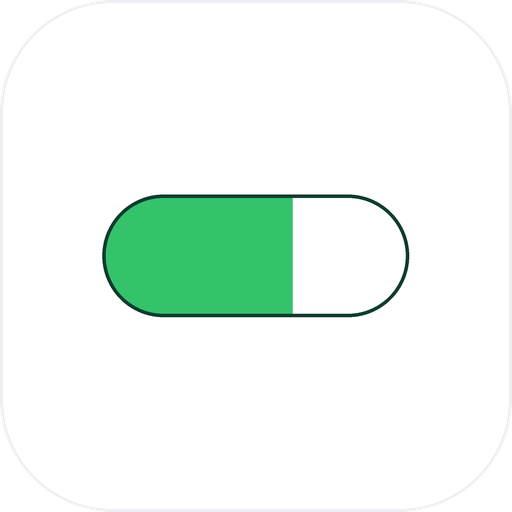
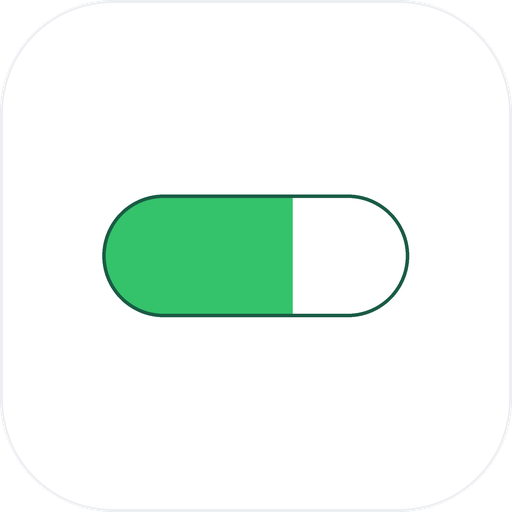
图标描边提亮一档：#0F3D2E -> #1A5C45
四档对比后取中间：再浅到 #1E7A4A 时，128 缩略图上胶囊右半段的线开始发虚，
到 #24874F 基本消失。 #1A5C45 是仍然带绿、又不掉线的下限。

diff --git a/tools/make_icon.py b/tools/make_icon.py
@@ -23,7 +23,7 @@ W = 512 * K
 BG = (255, 255, 255, 255)     # 白底
 EDGE = (236, 238, 241, 255)   # 白底在白页面里会看不出边界，靠这道极淡描边留形
 CAP = (255, 255, 255, 255)    # 胶囊自身也是白，靠黑色描边和白底分开
-CAP_LINE = (15, 61, 46, 255)  # 胶囊描边：深墨绿，与填充同色族；浅灰在白底上等于第三种颜色
+CAP_LINE = (26, 92, 69, 255)  # 胶囊描边：墨绿再浅一档，128 缩略图上仍不掉线
 FILL = (52, 194, 107, 255)    # 亮绿，呼应胶囊态里那个百分比
 RADIUS = int(W * 0.22)        # 圆角方
 STROKE = max(1, int(W * 0.006))
